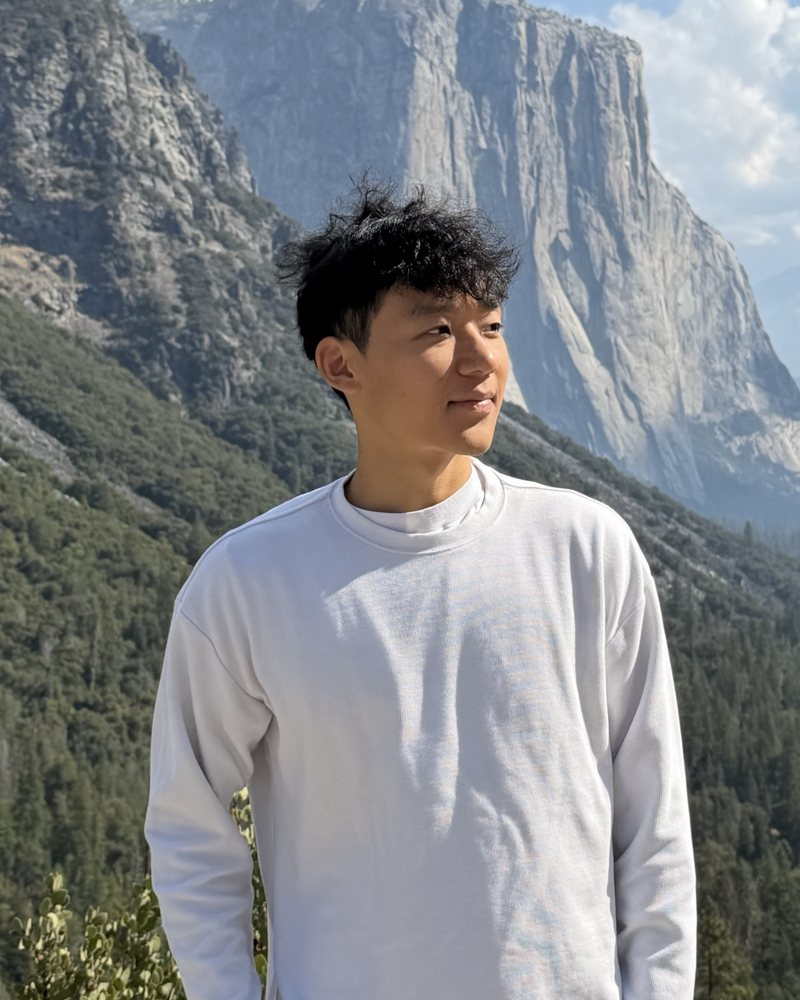
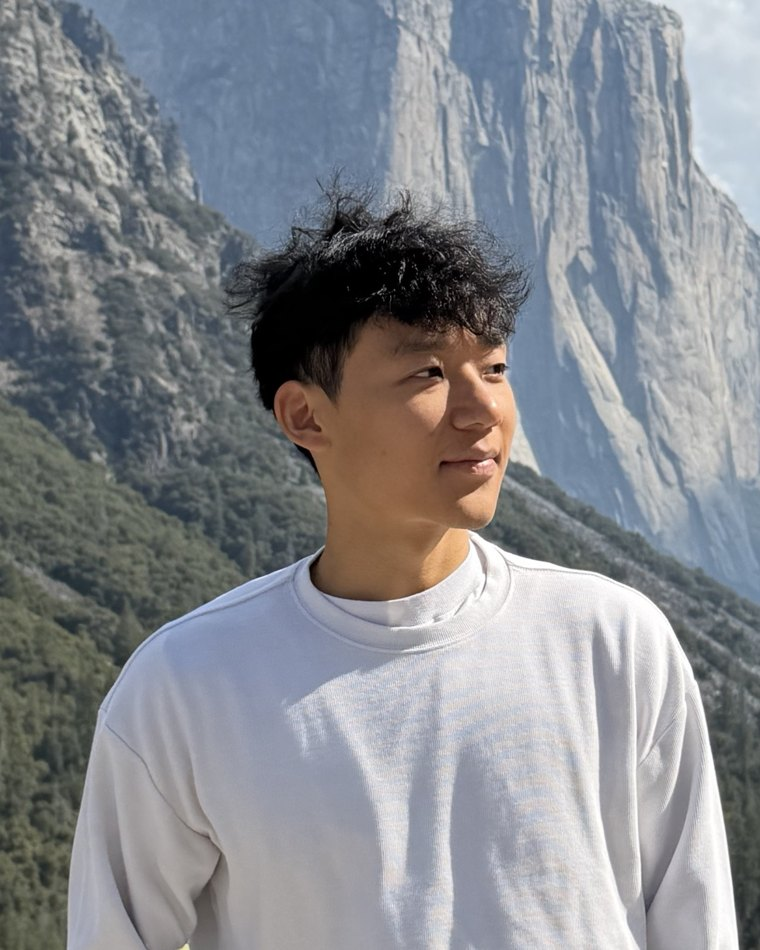
Redesign homepage: portrait-right hero, timeline entries
Claude-Session: https://claude.ai/code/session_014yjW8e2iV1WU6PfPFdovLK

diff --git a/index.html b/index.html
@@ -19,10 +19,9 @@
   <div class="topbar-in">
     <a class="wordmark" href="index.html">Zijun Zhuang</a>
     <nav class="nav" aria-label="Main">
-      <a href="#about" aria-current="page">about</a>
       <a href="#research">research</a>
-      <a href="#projects">projects</a>
       <a href="#experience">experience</a>
+      <a href="#education">education</a>
       <a href="life.html">life</a>
       <a href="assets/cv.pdf">cv</a>
     </nav>
@@ -31,129 +30,142 @@
 </header>
 
 <main class="page">
-  <div class="wrap">
+  <div class="wrap narrow">
 
-    <!-- ===== ABOUT ===== -->
     <section class="hero" id="about">
-      <div class="portrait">
-        <span class="mono-fill" aria-hidden="true">庄</span>
-        <!-- Put your photo at assets/img/profile.jpg (portrait, about 4:5) -->
-        <img data-photo src="assets/img/profile.jpg" alt="Portrait of Zijun Zhuang">
-      </div>
       <div class="hero-text">
-        <div class="name-line">
-          <h1 class="name">Zijun <span class="aka">(Keven)</span> Zhuang</h1>
-          <button class="han-btn" type="button" data-open-name aria-haspopup="dialog">庄梓俊<small>about my name</small></button>
-        </div>
-        <p class="affil">
-          <b>B.S. Applied &amp; Computational Mathematics</b>, University of California, Irvine<br>
-          Incoming <b>M.S. Computer Science</b>, University of Southern California · Jan 2027
-        </p>
+        <p class="eyebrow">Senior · UC Irvine &nbsp;→&nbsp; Incoming M.S. CS · USC</p>
+        <h1 class="name">Zijun <span class="aka">(Keven)</span> Zhuang</h1>
+        <button class="han-btn" type="button" data-open-name aria-haspopup="dialog">庄梓俊<small>about my name</small></button>
+        <p class="statement">I am interested in machine learning, especially where linear algebra, probability and numerical methods meet learning systems.</p>
         <div class="bio">
-          <p>I am a senior at UC Irvine studying Applied and Computational Mathematics. At CalPlug, Calit2, I work on dynamic load management for edge data centers, coordinating server workloads with cooling so that these facilities use less energy. I have also studied random matrix theory and how reliably large language models can grade math.</p>
-          <p>I am broadly interested in artificial intelligence and machine learning, especially where mathematical structure, such as linear algebra, probability and numerical methods, meets learning systems. In January 2027 I will begin the M.S. in Computer Science at USC, and I plan to pursue a PhD in an AI-related field.</p>
+          <p>I am a senior in Applied and Computational Mathematics at UC Irvine. At CalPlug, Calit2, I work on dynamic load management for edge data centers, advised by <a href="https://www.calplug.org/about/team">Prof. G.P. Li</a> and <a href="https://www.calplug.org/about/team">Dr. Shuoyu (Arnold) Wang</a>. I have also studied random matrix theory and how reliably large language models can grade math.</p>
+          <p>In January 2027 I will begin the M.S. in Computer Science at USC, and I plan to pursue a PhD in an AI-related field.</p>
         </div>
         <div class="links">
-          <a class="chip" href="mailto:zijunzhu@usc.edu">
-            <svg viewBox="0 0 24 24" fill="none" stroke="currentColor" stroke-width="1.8"><rect x="3" y="5" width="18" height="14" rx="2"/><path d="m3.5 6.5 8.5 6 8.5-6"/></svg>zijunzhu@usc.edu</a>
-          <a class="chip" href="https://github.com/kevenzhuang">
-            <svg viewBox="0 0 24 24" fill="currentColor"><path d="M12 2a10 10 0 0 0-3.2 19.5c.5.1.7-.2.7-.5v-1.7c-2.8.6-3.4-1.3-3.4-1.3-.4-1.2-1.1-1.5-1.1-1.5-.9-.6.1-.6.1-.6 1 .1 1.5 1 1.5 1 .9 1.6 2.4 1.1 3 .9.1-.7.4-1.1.6-1.4-2.2-.3-4.6-1.1-4.6-5 0-1.1.4-2 1-2.7-.1-.3-.4-1.3.1-2.7 0 0 .8-.3 2.8 1a9.6 9.6 0 0 1 5 0c1.9-1.3 2.8-1 2.8-1 .5 1.4.2 2.4.1 2.7.6.7 1 1.6 1 2.7 0 3.9-2.3 4.7-4.6 4.9.4.3.7.9.7 1.9v2.8c0 .3.2.6.7.5A10 10 0 0 0 12 2z"/></svg>kevenzhuang</a>
-          <a class="chip" href="https://www.linkedin.com/in/keven-zhuang-62643b3b6/">
-            <svg viewBox="0 0 24 24" fill="currentColor"><path d="M4.98 3.5a2.5 2.5 0 1 1 0 5 2.5 2.5 0 0 1 0-5zM3 9.5h4v11H3zM9.5 9.5h3.8v1.6h.1c.5-1 1.8-2 3.8-2 4 0 4.8 2.6 4.8 6v5.4h-4v-4.8c0-1.2 0-2.6-1.6-2.6s-1.9 1.3-1.9 2.5v4.9h-4z"/></svg>LinkedIn</a>
-          <a class="chip solid" href="assets/cv.pdf">
-            <svg viewBox="0 0 24 24" fill="none" stroke="currentColor" stroke-width="1.8" stroke-linecap="round" stroke-linejoin="round"><path d="M12 4v11m0 0-4-4m4 4 4-4M5 20h14"/></svg>CV (PDF)</a>
+          <a class="chip solid" href="mailto:zijunzhu@usc.edu">Email</a>
+          <a class="chip" href="https://github.com/kevenzhuang">GitHub</a>
+          <a class="chip" href="https://www.linkedin.com/in/keven-zhuang-62643b3b6/">LinkedIn</a>
+          <a class="chip" href="assets/cv.pdf">CV</a>
         </div>
+        <p class="contact mono">zijunzhu [at] usc [dot] edu &nbsp;·&nbsp; Irvine, CA</p>
+      </div>
+      <div class="portrait">
+        <span class="mono-fill" aria-hidden="true">庄</span>
+        <img data-photo src="assets/img/profile.jpg" alt="Portrait of Zijun Zhuang">
       </div>
     </section>
 
-    <!-- ===== NEWS ===== -->
-    <section class="section" id="news">
-      <div class="label">News</div>
-      <div class="body">
-        <ul class="news">
-          <li><time>Jan 2027</time><p><span class="tag">upcoming</span>Starting the M.S. in Computer Science at the University of Southern California.</p></li>
-          <li><time>Dec 2026</time><p><span class="tag">upcoming</span>Completing my B.S. in Applied and Computational Mathematics at UC Irvine.</p></li>
-          <li><time>May 2026</time><p>Presented our poster <em>Dynamic Load Management for Data Centers</em> at the CalPlug/ITAC Workshop.</p></li>
-        </ul>
-      </div>
+    <section class="sec" id="news">
+      <h2>News</h2>
+      <ul class="news">
+        <li><time>2027.01</time><p>Starting the M.S. in Computer Science at the University of Southern California.</p></li>
+        <li><time>2026.12</time><p>Completing my B.S. in Applied and Computational Mathematics at UC Irvine.</p></li>
+        <li><time>2026.05</time><p>Presented our poster <em>Dynamic Load Management for Data Centers</em> at the CalPlug/ITAC Workshop.</p></li>
+      </ul>
     </section>
 
-    <section class="section" id="research">
-      <div class="label">Research</div>
-      <div class="body items">
-        <article class="item">
-          <h3>Dynamic Load Management for Data Centers</h3>
-          <p class="org">Research Assistant, CalPlug, Calit2, UC Irvine · Mar 2026 – present<br>Advisors: <a href="https://www.calplug.org/about/team">Prof. G.P. Li</a> and <a href="https://www.calplug.org/about/team">Dr. Shuoyu (Arnold) Wang</a></p>
-          <p>Built an edge data center testbed and regression models that predict server energy use from CPU load, as a baseline for workload-aware cooling. Poster at the CalPlug/ITAC Workshop, May 2026.</p>
+    <section class="sec" id="research">
+      <h2>Research</h2>
+      <div class="timeline">
+        <article class="tl">
+          <div class="when">Mar 2026 —<br>Present</div>
+          <div class="what">
+            <span class="where">Irvine, CA</span><h3>Dynamic Load Management for Data Centers</h3>
+            <p class="role">Research Assistant, CalPlug, Calit2 · advised by <a href="https://www.calplug.org/about/team">Prof. G.P. Li</a> and <a href="https://www.calplug.org/about/team">Dr. Shuoyu (Arnold) Wang</a></p>
+            <p class="desc">Built an edge data center testbed and regression models that predict server energy use from CPU load, as a baseline for workload-aware cooling.</p>
+          </div>
         </article>
-        <article class="item">
-          <h3>Near-Isometry of Gaussian Random Matrices</h3>
-          <p class="org">Directed Reading Program, Department of Mathematics, UC Irvine · Mar 2026 – Jun 2026</p>
-          <p>Derived concentration bounds for how Gaussian random matrices preserve norms and inner products, and verified them numerically. Wrote a paper and presented a poster.</p>
+        <article class="tl">
+          <div class="when">Mar 2026 —<br>Jun 2026</div>
+          <div class="what">
+            <span class="where">Irvine, CA</span><h3>Near-Isometry of Gaussian Random Matrices</h3>
+            <p class="role">Directed Reading Program, Department of Mathematics</p>
+            <p class="desc">Derived concentration bounds for how Gaussian random matrices preserve norms and inner products, and verified them numerically.</p>
+          </div>
         </article>
-        <article class="item">
-          <h3>AI-Powered Math Grading System</h3>
-          <p class="org">Research Assistant, Department of Mathematics, UC Irvine · Jan 2025 – Jun 2025<br>Advisor: <a href="https://www.faculty.uci.edu/profile/?facultyId=5707">Prof. Yifeng Yu</a></p>
-          <p>A system that grades handwritten math work, using OpenCV for image processing and the OpenAI API for evaluation.</p>
-        </article>
-      </div>
-    </section>
-
-    <section class="section" id="projects">
-      <div class="label">Projects</div>
-      <div class="body items">
-        <article class="item">
-          <h3>Self-Correction in LLM Grading Agents</h3>
-          <p class="org">Independent project · May 2025 – Jun 2025</p>
-          <p>Tested whether a small LLM grader improves by critiquing its own verdicts on GSM8K. It did not, and repeated critique made it more lenient.</p>
-        </article>
-      </div>
-    </section>
-
-    <section class="section" id="experience">
-      <div class="label">Experience</div>
-      <div class="body items">
-        <article class="item">
-          <h3>Operations Intern</h3>
-          <p class="org">Tencent, Shanghai · Jul 2025 – Aug 2025</p>
-          <p>Built a Python pipeline that turned 300+ monthly data center maintenance work orders into a weekly priority report.</p>
-        </article>
-        <article class="item">
-          <h3>IT &amp; Business Intern</h3>
-          <p class="org">Shanghai Youxun Industry Co., Ltd., Shanghai · Jul 2024 – Sep 2024</p>
-          <p>Supported network deployment for 20+ corporate clients and interpreted in English–Mandarin client presentations.</p>
-        </article>
-        <article class="item">
-          <h3>Math CEO</h3>
-          <p class="org">UC Irvine</p>
-          <p>A math enrichment program for middle school students, led by Prof. Alessandra Pantano.</p>
+        <article class="tl">
+          <div class="when">Jan 2025 —<br>Jun 2025</div>
+          <div class="what">
+            <span class="where">Irvine, CA</span><h3>AI-Powered Math Grading System</h3>
+            <p class="role">Research Assistant, Department of Mathematics · advised by <a href="https://www.faculty.uci.edu/profile/?facultyId=5707">Prof. Yifeng Yu</a></p>
+            <p class="desc">A system that grades handwritten math work, using OpenCV for image processing and the OpenAI API for evaluation.</p>
+          </div>
         </article>
       </div>
     </section>
 
-    <section class="section" id="education">
-      <div class="label">Education</div>
-      <div class="body items">
-        <article class="item">
-          <h3>M.S. Computer Science (Scientists and Engineers)</h3>
-          <p class="org">University of Southern California · Jan 2027 – Dec 2028 (expected)</p>
-        </article>
-        <article class="item">
-          <h3>B.S. Applied and Computational Mathematics</h3>
-          <p class="org">University of California, Irvine · Sep 2023 – Dec 2026</p>
-          <p>Dean's Honor List.</p>
-        </article>
-        <article class="item">
-          <h3>Skills</h3>
-          <p class="org">Python, C++, Java, R, MATLAB · PyTorch, TensorFlow, Hugging Face, vLLM, OpenCV · Git, Linux</p>
+    <section class="sec" id="projects">
+      <h2>Projects</h2>
+      <div class="timeline">
+        <article class="tl">
+          <div class="when">May 2025 —<br>Jun 2025</div>
+          <div class="what">
+            <h3>Self-Correction in LLM Grading Agents</h3>
+            <p class="role">Independent project</p>
+            <p class="desc">Tested whether a small LLM grader improves by critiquing its own verdicts on GSM8K. It did not, and repeated critique made it more lenient.</p>
+          </div>
         </article>
       </div>
     </section>
 
-    <!-- ===== PLAYGROUND ===== -->
-    <section class="section" id="playground">
-      <div class="label">Playground<span>gradient descent</span></div>
-      <div class="body">
+    <section class="sec" id="experience">
+      <h2>Experience</h2>
+      <div class="timeline">
+        <article class="tl">
+          <div class="when">Jul 2025 —<br>Aug 2025</div>
+          <div class="what">
+            <span class="where">Shanghai, China</span><h3>Tencent</h3>
+            <p class="role">Operations Intern</p>
+            <p class="desc">Built a Python pipeline that turned 300+ monthly data center maintenance work orders into a weekly priority report.</p>
+          </div>
+        </article>
+        <article class="tl">
+          <div class="when">Jul 2024 —<br>Sep 2024</div>
+          <div class="what">
+            <span class="where">Shanghai, China</span><h3>Shanghai Youxun Industry Co., Ltd.</h3>
+            <p class="role">IT &amp; Business Intern</p>
+            <p class="desc">Supported network deployment for 20+ corporate clients and interpreted in English–Mandarin client presentations.</p>
+          </div>
+        </article>
+        <article class="tl">
+          <div class="when"></div>
+          <div class="what">
+            <span class="where">Irvine, CA</span><h3>Math CEO, UC Irvine</h3>
+            <p class="role">Math enrichment program for middle school students, led by Prof. Alessandra Pantano</p>
+          </div>
+        </article>
+      </div>
+    </section>
+
+    <section class="sec" id="education">
+      <h2>Education</h2>
+      <div class="timeline">
+        <article class="tl">
+          <div class="when">Jan 2027 —<br>Dec 2028</div>
+          <div class="what">
+            <span class="where">Los Angeles, CA</span><h3>University of Southern California</h3>
+            <p class="role">M.S. in Computer Science (Scientists and Engineers)</p>
+          </div>
+        </article>
+        <article class="tl">
+          <div class="when">Sep 2023 —<br>Dec 2026</div>
+          <div class="what">
+            <span class="where">Irvine, CA</span><h3>University of California, Irvine</h3>
+            <p class="role">B.S. in Applied and Computational Mathematics · Dean's Honor List</p>
+          </div>
+        </article>
+        <article class="tl">
+          <div class="when">Skills</div>
+          <div class="what">
+            <p class="desc">Python, C++, Java, R, MATLAB · PyTorch, TensorFlow, Hugging Face, vLLM, OpenCV · Git, Linux</p>
+          </div>
+        </article>
+      </div>
+    </section>
+
+    <section class="sec" id="playground">
+      <h2>Playground</h2>
         <div class="gd" id="gd">
           <div class="gd-canvas-wrap">
             <canvas aria-label="Contour plot of a loss surface. Click to start gradient descent from that point."></canvas>
@@ -169,11 +181,10 @@
           </div>
         </div>
         <p class="caption">Darker regions have lower loss, and the cross marks the global minimum. Each ball follows the negative gradient until it stops moving. Many runs settle in a local minimum. Try turning on momentum, or raising the learning rate until the steps start to overshoot.</p>
-      </div>
     </section>
 
     <footer class="foot">
-      <span>© <span id="year">2026</span> Zijun Zhuang · Irvine, California</span>
+      <span>© <span id="year">2026</span> Zijun Zhuang</span>
       <span><a href="life.html">Photos from my travels →</a></span>
     </footer>
   </div>

diff --git a/assets/css/style.css b/assets/css/style.css
@@ -316,3 +316,41 @@ dialog.namecard::backdrop { background: rgba(8, 14, 24, .45); backdrop-filter: b
 .item h3 { font-family: var(--f-body); font-size: 1.02rem; font-weight: 600; line-height: 1.4; }
 .item .org { font-family: var(--f-mono); font-size: .78rem; color: var(--ink-2); }
 .item p:not(.org) { font-size: .98rem; }
+
+/* ===== v2 layout: single reading column, portrait right, timeline entries ===== */
+.wrap.narrow { max-width: 54rem; }
+.hero { grid-template-columns: minmax(0, 1fr) 15rem; gap: 3rem; padding-block: 4rem 3rem; align-items: start; }
+.hero .portrait { width: 15rem; aspect-ratio: 4 / 5; border-radius: 10px; box-shadow: 0 18px 40px -22px rgba(10, 20, 35, .45); order: 2; }
+.hero .portrait img { object-position: 50% 30%; }
+.hero-text { gap: .9rem; order: 1; }
+.eyebrow { font-family: var(--f-mono); font-size: .72rem; letter-spacing: .1em; text-transform: uppercase; color: var(--accent); }
+.hero .name { font-size: clamp(2.4rem, 5.4vw, 3.4rem); line-height: 1.05; }
+.hero .han-btn { justify-self: start; margin-top: -.3rem; }
+.statement { font-family: var(--f-display); font-size: 1.28rem; line-height: 1.45; color: var(--ink); max-width: 36rem; }
+.hero .bio { color: var(--ink-2); font-size: .98rem; gap: .7rem; }
+.hero .bio a { color: var(--accent); }
+.contact { font-size: .74rem; color: var(--ink-2); }
+@media (max-width: 760px) {
+  .hero { grid-template-columns: minmax(0, 1fr); gap: 1.6rem; padding-block: 2.2rem 2rem; }
+  .hero .portrait { order: 0; width: 11rem; }
+}
+
+.sec { border-top: 1px solid var(--rule); padding-block: 2.6rem; display: grid; gap: 1.4rem; scroll-margin-top: 4rem; }
+.sec > h2 { font-size: 1.75rem; }
+
+.news li { grid-template-columns: 5.2rem minmax(0, 1fr); }
+
+.timeline { display: grid; gap: 1.6rem; }
+.tl { display: grid; grid-template-columns: 7.5rem minmax(0, 1fr); gap: 1.5rem; }
+.tl .when { font-family: var(--f-mono); font-size: .74rem; letter-spacing: .04em; text-transform: uppercase; color: var(--ink-2); padding-top: .2rem; line-height: 1.6; font-variant-numeric: tabular-nums; }
+.tl .what { min-width: 0; display: grid; gap: .2rem; padding-left: 1.4rem; border-left: 1px solid var(--rule); position: relative; }
+.tl .what::before { content: ""; position: absolute; left: -4.5px; top: .45rem; width: 8px; height: 8px; border-radius: 50%; background: var(--paper); border: 1.5px solid var(--accent); }
+.tl .where { font-family: var(--f-mono); font-size: .66rem; letter-spacing: .1em; text-transform: uppercase; color: var(--accent); }
+.tl h3 { font-family: var(--f-body); font-size: 1.05rem; font-weight: 600; line-height: 1.35; }
+.tl .role { font-size: .93rem; color: var(--ink-2); }
+.tl .role a { color: var(--ink-2); }
+.tl .desc { font-size: .96rem; margin-top: .15rem; }
+@media (max-width: 560px) {
+  .tl { grid-template-columns: minmax(0, 1fr); gap: .4rem; }
+  .tl .when br { display: none; }
+}
